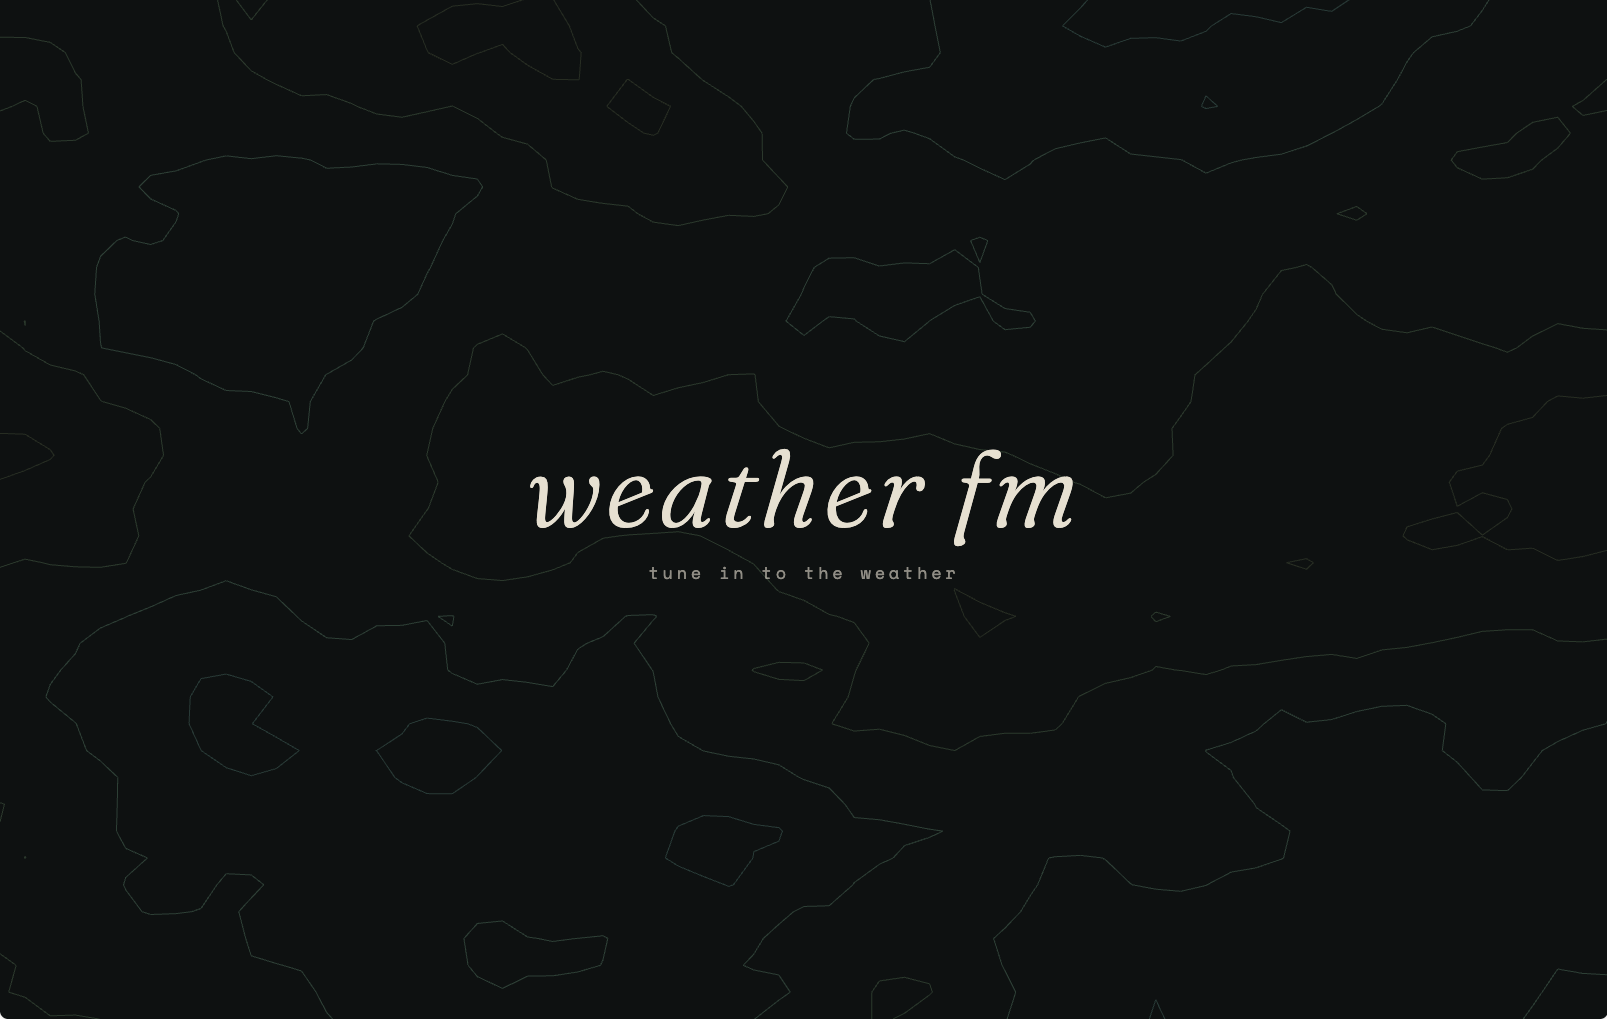
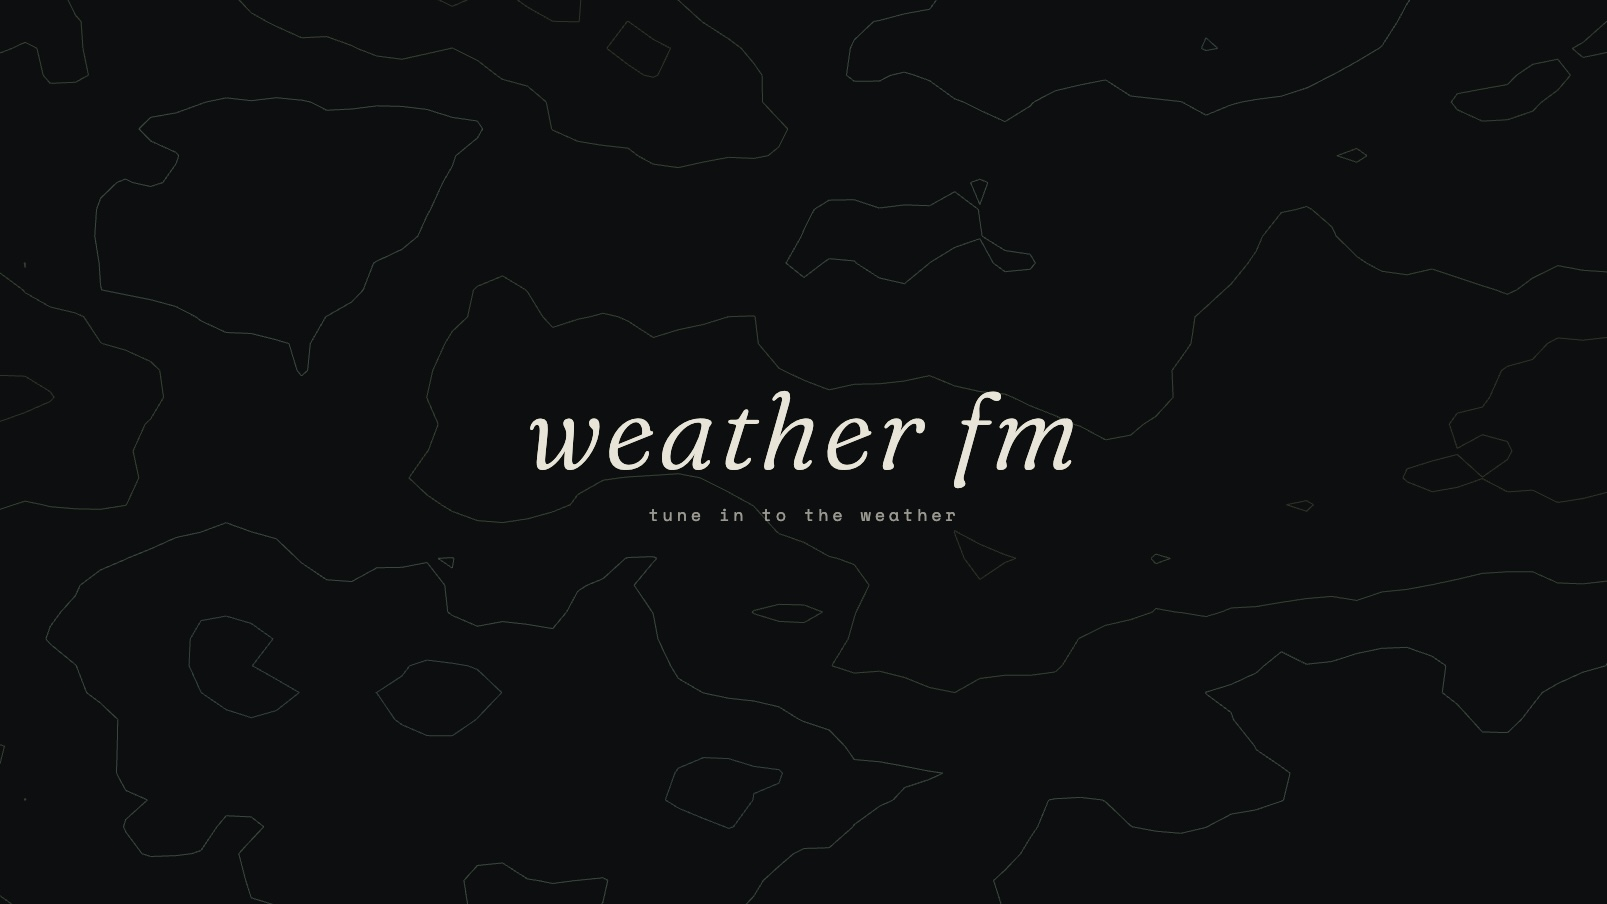
project

Changed region(s): [[0.3111, 0.4336, 0.6845, 0.5265], [0.4045, 0.5575, 0.5912, 0.5885], [0.9956, 0.9912, 1.0, 1.0]]

diff --git a/projects/weather_fm.html b/projects/weather_fm.html
@@ -23,56 +23,56 @@
             text-decoration: none;
         }
         a:hover { font-style: italic; }
-        
+
         p {
             max-width: 750px;
         }
-        
+
         ul {
             margin: 0;
             padding: 0;
             list-style-type: none;
         }
-        
+
         ul li a {
             display: flex;
             align-items: center;
             text-decoration: none;
             width: max-content;
         }
-        
+
         ul li a::after {
             display: inline-block;
             text-decoration: none;
             margin-left: 5px;
             content: '→';
         }
-        
+
         .small {
             font-size: 12px;
             margin-top: -2px;
         }
-        
+
         /* back link at top */
         .back-link {
             font-size: 14px;
             display: inline-block;
             margin-bottom: 30px;
         }
-        
+
         .back-link a {
             display: flex;
             align-items: center;
             text-decoration: none;
             width: max-content;
         }
-        
+
         .back-link a::before {
             display: inline-block;
             margin-right: 5px;
             content: '←';
         }
-        
+
         /* ---- top section: hero image | key info | description ---- */
         .project-top {
             display: flex;
@@ -81,34 +81,35 @@
             gap: 10px;
             max-width: 1600px;
         }
-        
+
         .project-hero {
             flex: 2 1 400px;
             max-width: 700px;
             min-width: 0;
             margin-right: 10px;
         }
-        
+
         .project-hero figure {
             margin: 0;
             display: flex;
             flex-flow: column nowrap;
             gap: 4px;
         }
-        
+
         .project-hero img {
+            /* full image, uncropped, at its own natural aspect ratio —
+               same on every screen size, just scaled to the column width */
             width: 100%;
-            height: 100%;
-            object-fit: cover;
+            height: auto;
             display: block;
             border-radius: 12px;
         }
-        
+
         .project-hero figcaption {
             font-size: 10px;
             color: #666;
         }
-        
+
         .key-info {
             flex: 1 1 180px;
             text-decoration: none;
@@ -118,25 +119,25 @@
             font-size: 12px;
             line-height: 1;
         }
-        
+
         .key-info dl {
             margin: 0;
             padding: 0;
         }
-        
+
         .key-info dt {
             font-weight: bold;
             margin-top: 14px;
         }
-        
+
         .key-info dt:first-child {
             margin-top: 0;
         }
-        
+
         .key-info dd {
             margin: 2px 0 0 0;
         }
-        
+
         .project-description {
             flex: 2 1 350px;
             max-width: 750px;
@@ -144,12 +145,12 @@
             font-size: 12px;
             line-height: 1.4;
         }
-        
+
         .project-description p {
             max-width: none;
             overflow-wrap: break-word;
         }
-        
+
         /* ---- media section ---- */
         .media-grid {
             display: flex;
@@ -157,35 +158,41 @@
             gap: 10px;
             max-width: 1600px;
         }
-        
+
         .media-grid figure {
             margin: 0;
             display: flex;
             flex-flow: column nowrap;
             gap: 4px;
+            /* a definite flex-basis so the img's width:100% below has
+               something to resolve against, and so a single figure fills
+               the whole row (i.e. the whole screen width) once it no
+               longer fits next to another one — same behaviour on mobile
+               as on desktop, just fewer columns */
+            flex: 1 1 260px;
+            min-width: 0;
         }
-        
+
         .media-grid img,
         .media-grid video {
+            /* full image, uncropped, at its own natural aspect ratio */
             width: 100%;
-            height: 100%;
-            max-height: 210px;
-            object-fit: cover;
+            height: auto;
             display: block;
             border-radius: 12px;
             background: #000;
         }
-        
+
         .media-grid audio {
             width: 300px;
             max-width: 100%;
         }
-        
+
         .media-grid figcaption {
             font-size: 10px;
             color: #666;
         }
-        
+
         /* ---- footer ---- */
         .site-footer {
             margin-top: 60px;
@@ -195,7 +202,7 @@
             align-items: center;
             gap: 6px;
         }
-        
+
         @media (max-width: 900px) {
             body {
                 padding: 20px;
@@ -210,9 +217,8 @@
                 flex-basis: auto;
                 margin-right: 0;
             }
-            .project-hero img {
-                height: 320px;
-            }
+            /* no hero-image height override here anymore — it keeps the
+               exact same width:100%; height:auto treatment as desktop */
         }
     </style>
 </head>
@@ -220,18 +226,17 @@
     <div class="back-link">
         <a href="/">back</a>
     </div>
-
     <!-- ============ TOP SECTION: hero image / key info / description ============ -->
     <div class="project-top">
-        
+
         <!-- column 1: hero image -->
         <div class="project-hero">
             <figure>
-                <img src="../images/weatherfm/weatherfm_live_night.jpg" alt="">
-                <figcaption>weather fm night</figcaption>
+                <img src="../images/weatherfm/weatherfm_icon.jpg" alt="">
+                <figcaption>weather fm icon</figcaption>
             </figure>
         </div>
-        
+
         <!-- column 2: key info -->
         <div class="key-info">
             <dl>
@@ -242,31 +247,31 @@
                 <dd><a href="https://weatherfm.gary-mart.in" target="_blank">weather fm ↗</a></dd>
             </dl>
         </div>
-        
+
         <!-- column 3: project description -->
         <div class="project-description">
             <p>
-                weather fm is an experiment in listening as a method for tuning into the weather. it turns your local meteorological data into a generative ambient composition, with visuals emerging from your coordinates. 
+                weather fm is an experiment in listening as a method for tuning into the weather. it turns your local meteorological data into a generative ambient composition, with visuals emerging from your coordinates.
             </p>
         </div>
     </div>
-    
+
     <!-- ============ MEDIA ============ -->
     <br>
     <div class="media-grid">
-        
+
         <!-- image -->
         <figure>
-            <img src="../images/weatherfm/weatherfm_icon.jpg" alt="">
-            <figcaption>weather fm icon</figcaption>
+            <img src="../images/weatherfm/weatherfm_live_night.jpg" alt="">
+            <figcaption>weather fm night</figcaption>
         </figure>
-        
+
         <!-- image -->
         <figure>
             <img src="../images/weatherfm/weatherfm_live.jpg" alt="">
             <figcaption>weather fm day</figcaption>
         </figure>
-        
+
         <!-- image -->
         <figure>
             <img src="../images/weatherfm/weatherfm_load.jpg" alt="">
@@ -274,7 +279,7 @@
         </figure>
     </div>
     <br>
-    
+
     <!-- ============ FOOTER ============ -->
     <footer class="site-footer">
         <a href="/">gary-martin</a> · <span id="footer-date"></span>
